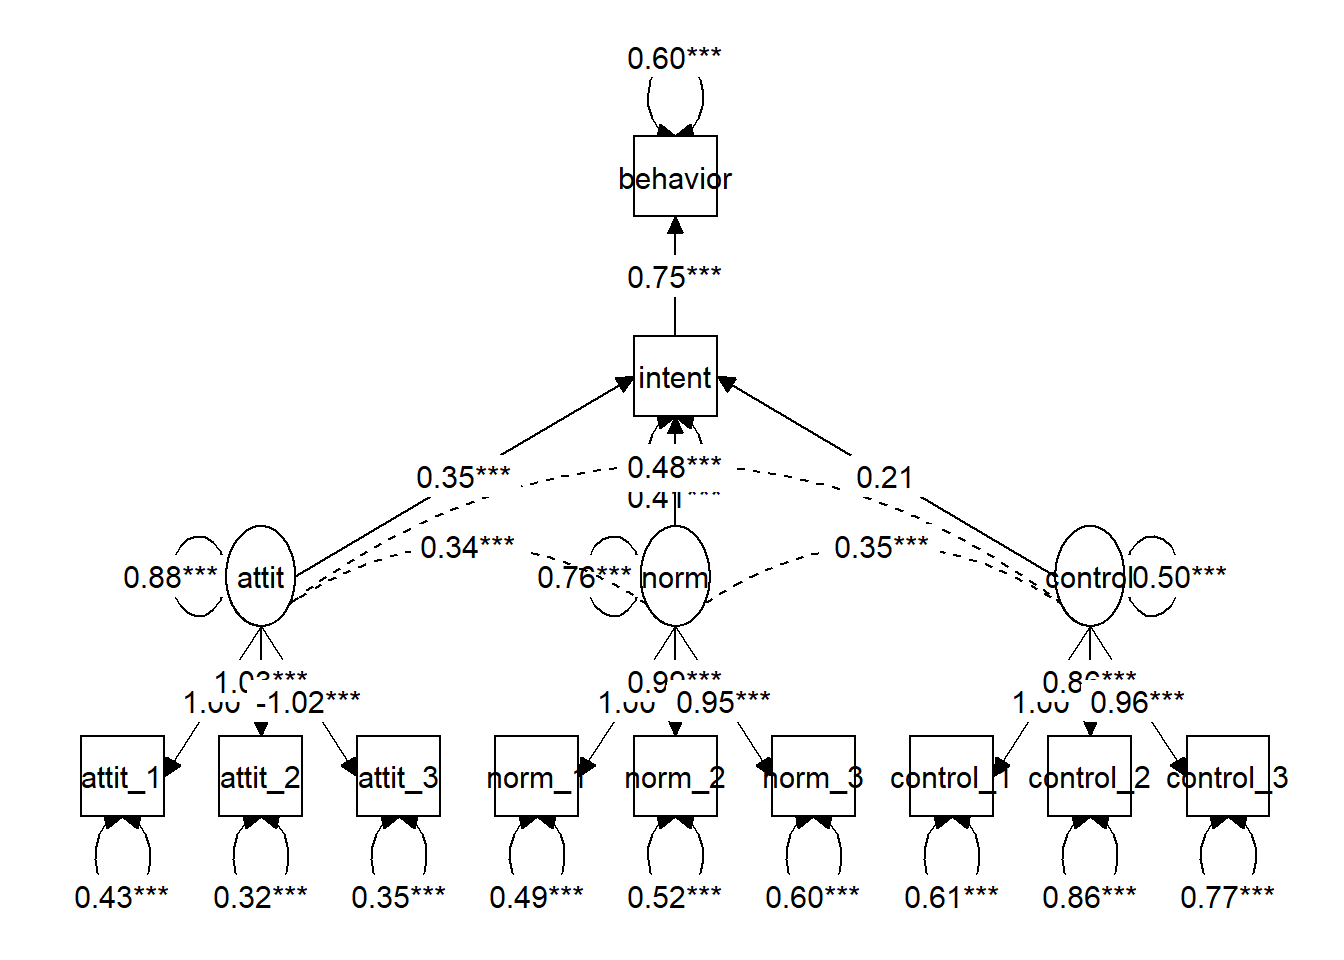
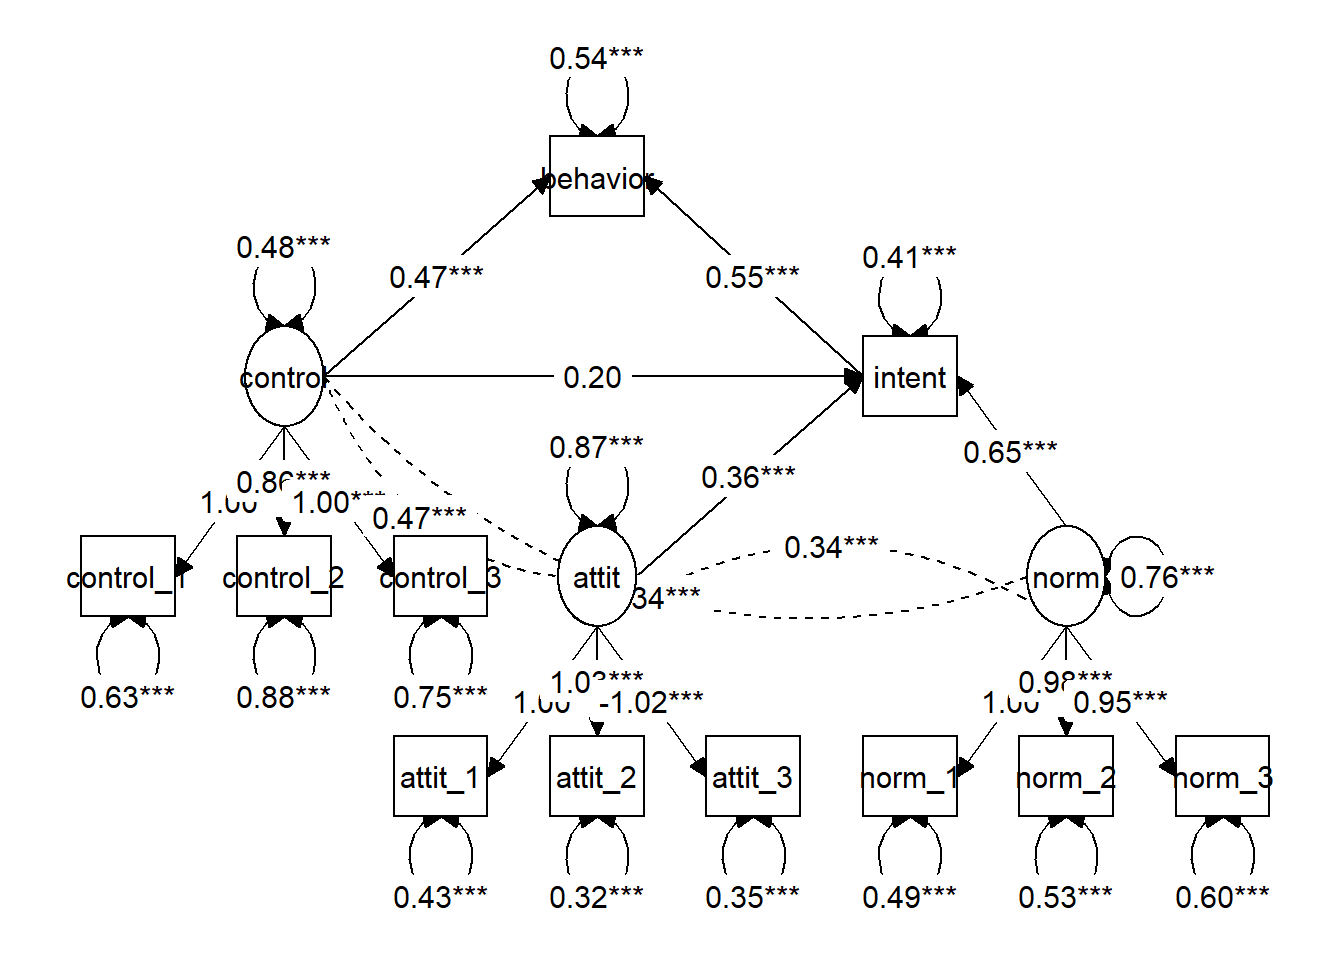
Update week 7

diff --git a/docs/week-7-putting-it-all-together.html b/docs/week-7-putting-it-all-together.html
@@ -503,7 +503,7 @@ code span.wa { color: #60a0b0; font-weight: bold; font-style: italic; } /* Warni
 </div>
 <div id="question-2" class="section level3">
 <h3><span class="header-section-number">21.0.3</span> Question 2</h3>
-<p>Set up a TORA model with attitude and norms as latent variables, both predicting behavorial intention and behavior. Analyze it. Interpret the model fit. If you find the model to fit, look at the results. How much variance does the model explain?</p>
+<p>Set up a TORA model with attitude and norms as latent variables both predicting behavorial intention, and intention predicting behavior. Analyze it. Interpret the model fit. If you find the model to fit, look at the results. How much variance does the model explain?</p>
 <details>
 <p><summary>Click for explanation</summary></p>
 <div class="sourceCode" id="cb296"><pre class="sourceCode r"><code class="sourceCode r"><a class="sourceLine" id="cb296-1" title="1">TORA_sem &lt;-<span class="st"> &#39;attit =~ attit_1 + attit_2 + attit_3</span></a>
@@ -758,14 +758,14 @@ control can be either direct or indirect; the TORA does not specify which. Test 
 <a class="sourceLine" id="cb300-3" title="3"><span class="st">             control =~ control_1 + control_2 + control_3</span></a>
 <a class="sourceLine" id="cb300-4" title="4"><span class="st">             </span></a>
 <a class="sourceLine" id="cb300-5" title="5"><span class="st">             intent ~ attit + norm + control</span></a>
-<a class="sourceLine" id="cb300-6" title="6"><span class="st">             behavior ~ intent&#39;</span></a>
+<a class="sourceLine" id="cb300-6" title="6"><span class="st">             behavior ~ intent + control&#39;</span></a>
 <a class="sourceLine" id="cb300-7" title="7"></a>
 <a class="sourceLine" id="cb300-8" title="8">TORA_ind &lt;-<span class="st"> &#39;attit =~ attit_1 + attit_2 + attit_3</span></a>
 <a class="sourceLine" id="cb300-9" title="9"><span class="st">             norm =~ norm_1 + norm_2 + norm_3</span></a>
 <a class="sourceLine" id="cb300-10" title="10"><span class="st">             control =~ control_1 + control_2 + control_3</span></a>
 <a class="sourceLine" id="cb300-11" title="11"><span class="st">             </span></a>
 <a class="sourceLine" id="cb300-12" title="12"><span class="st">             intent ~ attit + norm + control</span></a>
-<a class="sourceLine" id="cb300-13" title="13"><span class="st">             behavior ~ intent + control&#39;</span></a>
+<a class="sourceLine" id="cb300-13" title="13"><span class="st">             behavior ~ intent&#39;</span></a>
 <a class="sourceLine" id="cb300-14" title="14"></a>
 <a class="sourceLine" id="cb300-15" title="15">fit_dir &lt;-<span class="st"> </span><span class="kw">sem</span>(TORA_dir, <span class="dt">data =</span> df)</a>
 <a class="sourceLine" id="cb300-16" title="16">fit_ind &lt;-<span class="st"> </span><span class="kw">sem</span>(TORA_ind, <span class="dt">data =</span> df)</a></code></pre></div>
@@ -773,7 +773,7 @@ control can be either direct or indirect; the TORA does not specify which. Test 
 <div class="sourceCode" id="cb301"><pre class="sourceCode r"><code class="sourceCode r"><a class="sourceLine" id="cb301-1" title="1"><span class="kw">anova</span>(fit_dir, fit_ind)</a></code></pre></div>
 <div data-pagedtable="false">
 <script data-pagedtable-source type="application/json">
-{"columns":[{"label":[""],"name":["_rn_"],"type":[""],"align":["left"]},{"label":["Df"],"name":[1],"type":["int"],"align":["right"]},{"label":["AIC"],"name":[2],"type":["dbl"],"align":["right"]},{"label":["BIC"],"name":[3],"type":["dbl"],"align":["right"]},{"label":["Chisq"],"name":[4],"type":["dbl"],"align":["right"]},{"label":["Chisq diff"],"name":[5],"type":["dbl"],"align":["right"]},{"label":["Df diff"],"name":[6],"type":["int"],"align":["right"]},{"label":["Pr(>Chisq)"],"name":[7],"type":["dbl"],"align":["right"]}],"data":[{"1":"38","2":"7156.952","3":"7255.553","4":"47.38864","5":"NA","6":"NA","7":"NA","_rn_":"fit_ind"},{"1":"39","2":"7170.360","3":"7265.439","4":"62.79676","5":"15.40812","6":"1","7":"8.661552e-05","_rn_":"fit_dir"}],"options":{"columns":{"min":{},"max":[10]},"rows":{"min":[10],"max":[10]},"pages":{}}}
+{"columns":[{"label":[""],"name":["_rn_"],"type":[""],"align":["left"]},{"label":["Df"],"name":[1],"type":["int"],"align":["right"]},{"label":["AIC"],"name":[2],"type":["dbl"],"align":["right"]},{"label":["BIC"],"name":[3],"type":["dbl"],"align":["right"]},{"label":["Chisq"],"name":[4],"type":["dbl"],"align":["right"]},{"label":["Chisq diff"],"name":[5],"type":["dbl"],"align":["right"]},{"label":["Df diff"],"name":[6],"type":["int"],"align":["right"]},{"label":["Pr(>Chisq)"],"name":[7],"type":["dbl"],"align":["right"]}],"data":[{"1":"38","2":"7156.952","3":"7255.553","4":"47.38864","5":"NA","6":"NA","7":"NA","_rn_":"fit_dir"},{"1":"39","2":"7170.360","3":"7265.439","4":"62.79676","5":"15.40812","6":"1","7":"8.661552e-05","_rn_":"fit_ind"}],"options":{"columns":{"min":{},"max":[10]},"rows":{"min":[10],"max":[10]},"pages":{}}}
   </script>
 </div>
 <div class="sourceCode" id="cb302"><pre class="sourceCode r"><code class="sourceCode r"><a class="sourceLine" id="cb302-1" title="1"><span class="kw">library</span>(semTools)</a>
@@ -782,19 +782,19 @@ control can be either direct or indirect; the TORA does not specify which. Test 
 ## Chi-Squared Difference Test
 ## 
 ##          Df    AIC    BIC  Chisq Chisq diff Df diff Pr(&gt;Chisq)    
-## Indirect 38 7157.0 7255.6 47.389                                  
-## Direct   39 7170.4 7265.4 62.797     15.408       1  8.662e-05 ***
+## Direct   38 7157.0 7255.6 47.389                                  
+## Indirect 39 7170.4 7265.4 62.797     15.408       1  8.662e-05 ***
 ## ---
 ## Signif. codes:  0 &#39;***&#39; 0.001 &#39;**&#39; 0.01 &#39;*&#39; 0.05 &#39;.&#39; 0.1 &#39; &#39; 1
 ## 
 ## ####################### Model Fit Indices ###########################
 ##            chisq df pvalue   cfi   tli       aic       bic rmsea  srmr
-## Indirect 47.389† 38   .141 .993† .989† 7156.952† 7255.553† .031† .033†
-## Direct   62.797  39   .009 .981  .974  7170.360  7265.439  .049  .043 
+## Direct   47.389† 38   .141 .993† .989† 7156.952† 7255.553† .031† .033†
+## Indirect 62.797  39   .009 .981  .974  7170.360  7265.439  .049  .043 
 ## 
 ## ################## Differences in Fit Indices #######################
 ##                   df    cfi    tli    aic   bic rmsea  srmr
-## Direct - Indirect  1 -0.011 -0.016 13.408 9.887 0.018 0.011</code></pre>
+## Indirect - Direct  1 -0.011 -0.016 13.408 9.887 0.018 0.011</code></pre>
 
 </div>
 <div id="question-5" class="section level3">
@@ -850,26 +850,24 @@ They are estimated on different variables. We will get a warning to emphasize th
 <pre><code>## ################### Nested Model Comparison #########################
 ## Chi-Squared Difference Test
 ## 
-##          Df    AIC    BIC  Chisq Chisq diff Df diff Pr(&gt;Chisq)  
-## Observed  3 1130.6 1151.7 15.342                                
-## Latent   39 7170.4 7265.4 62.797     47.455      36    0.09588 .
-## ---
-## Signif. codes:  0 &#39;***&#39; 0.001 &#39;**&#39; 0.01 &#39;*&#39; 0.05 &#39;.&#39; 0.1 &#39; &#39; 1
+##          Df    AIC    BIC  Chisq Chisq diff Df diff Pr(&gt;Chisq)
+## Observed  3 1130.6 1151.7 15.342                              
+## Latent   38 7157.0 7255.6 47.389     32.047      35     0.6114
 ## 
 ## ####################### Model Fit Indices ###########################
 ##            chisq df pvalue   cfi   tli       aic       bic rmsea  srmr
-## Observed 15.342†  3   .002 .970  .929  1130.603† 1151.732† .128  .042†
-## Latent   62.797  39   .009 .981† .974† 7170.360  7265.439  .049† .043 
+## Observed 15.342†  3   .002 .970  .929  1130.603† 1151.732† .128  .042 
+## Latent   47.389  38   .141 .993† .989† 7156.952  7255.553  .031† .033†
 ## 
 ## ################## Differences in Fit Indices #######################
-##                   df   cfi   tli      aic      bic  rmsea  srmr
-## Latent - Observed 36 0.012 0.045 6039.757 6113.707 -0.079 0.001</code></pre>
+##                   df   cfi  tli      aic      bic  rmsea   srmr
+## Latent - Observed 35 0.023 0.06 6026.349 6103.821 -0.097 -0.009</code></pre>
 <p>We can also inspect the regression coefficients in both models:</p>
 <div class="sourceCode" id="cb313"><pre class="sourceCode r"><code class="sourceCode r"><a class="sourceLine" id="cb313-1" title="1"><span class="kw">table_results</span>(fit_dir) <span class="op">%&gt;%</span></a>
 <a class="sourceLine" id="cb313-2" title="2"><span class="st">  </span><span class="kw">filter</span>(<span class="kw">grepl</span>(<span class="st">&quot;ON&quot;</span>, label))</a></code></pre></div>
 <div data-pagedtable="false">
 <script data-pagedtable-source type="application/json">
-{"columns":[{"label":["label"],"name":[1],"type":["chr"],"align":["left"]},{"label":["est_sig"],"name":[2],"type":["chr"],"align":["left"]},{"label":["se"],"name":[3],"type":["chr"],"align":["left"]},{"label":["confint"],"name":[4],"type":["chr"],"align":["left"]}],"data":[{"1":"intent.ON.attit","2":"0.35***","3":"0.10","4":"[0.16, 0.54]"},{"1":"intent.ON.norm","2":"0.64***","3":"0.09","4":"[0.47, 0.82]"},{"1":"intent.ON.control","2":"0.21","3":"0.16","4":"[-0.11, 0.53]"},{"1":"behavior.ON.intent","2":"0.75***","3":"0.05","4":"[0.66, 0.83]"}],"options":{"columns":{"min":{},"max":[10]},"rows":{"min":[10],"max":[10]},"pages":{}}}
+{"columns":[{"label":["label"],"name":[1],"type":["chr"],"align":["left"]},{"label":["est_sig"],"name":[2],"type":["chr"],"align":["left"]},{"label":["se"],"name":[3],"type":["chr"],"align":["left"]},{"label":["confint"],"name":[4],"type":["chr"],"align":["left"]}],"data":[{"1":"intent.ON.attit","2":"0.36***","3":"0.10","4":"[0.17, 0.55]"},{"1":"intent.ON.norm","2":"0.65***","3":"0.09","4":"[0.47, 0.82]"},{"1":"intent.ON.control","2":"0.20","3":"0.17","4":"[-0.13, 0.53]"},{"1":"behavior.ON.intent","2":"0.55***","3":"0.07","4":"[0.42, 0.69]"},{"1":"behavior.ON.control","2":"0.47***","3":"0.13","4":"[0.22, 0.72]"}],"options":{"columns":{"min":{},"max":[10]},"rows":{"min":[10],"max":[10]},"pages":{}}}
   </script>
 </div>
 <div class="sourceCode" id="cb314"><pre class="sourceCode r"><code class="sourceCode r"><a class="sourceLine" id="cb314-1" title="1"><span class="kw">table_results</span>(fit_obs) <span class="op">%&gt;%</span></a>
